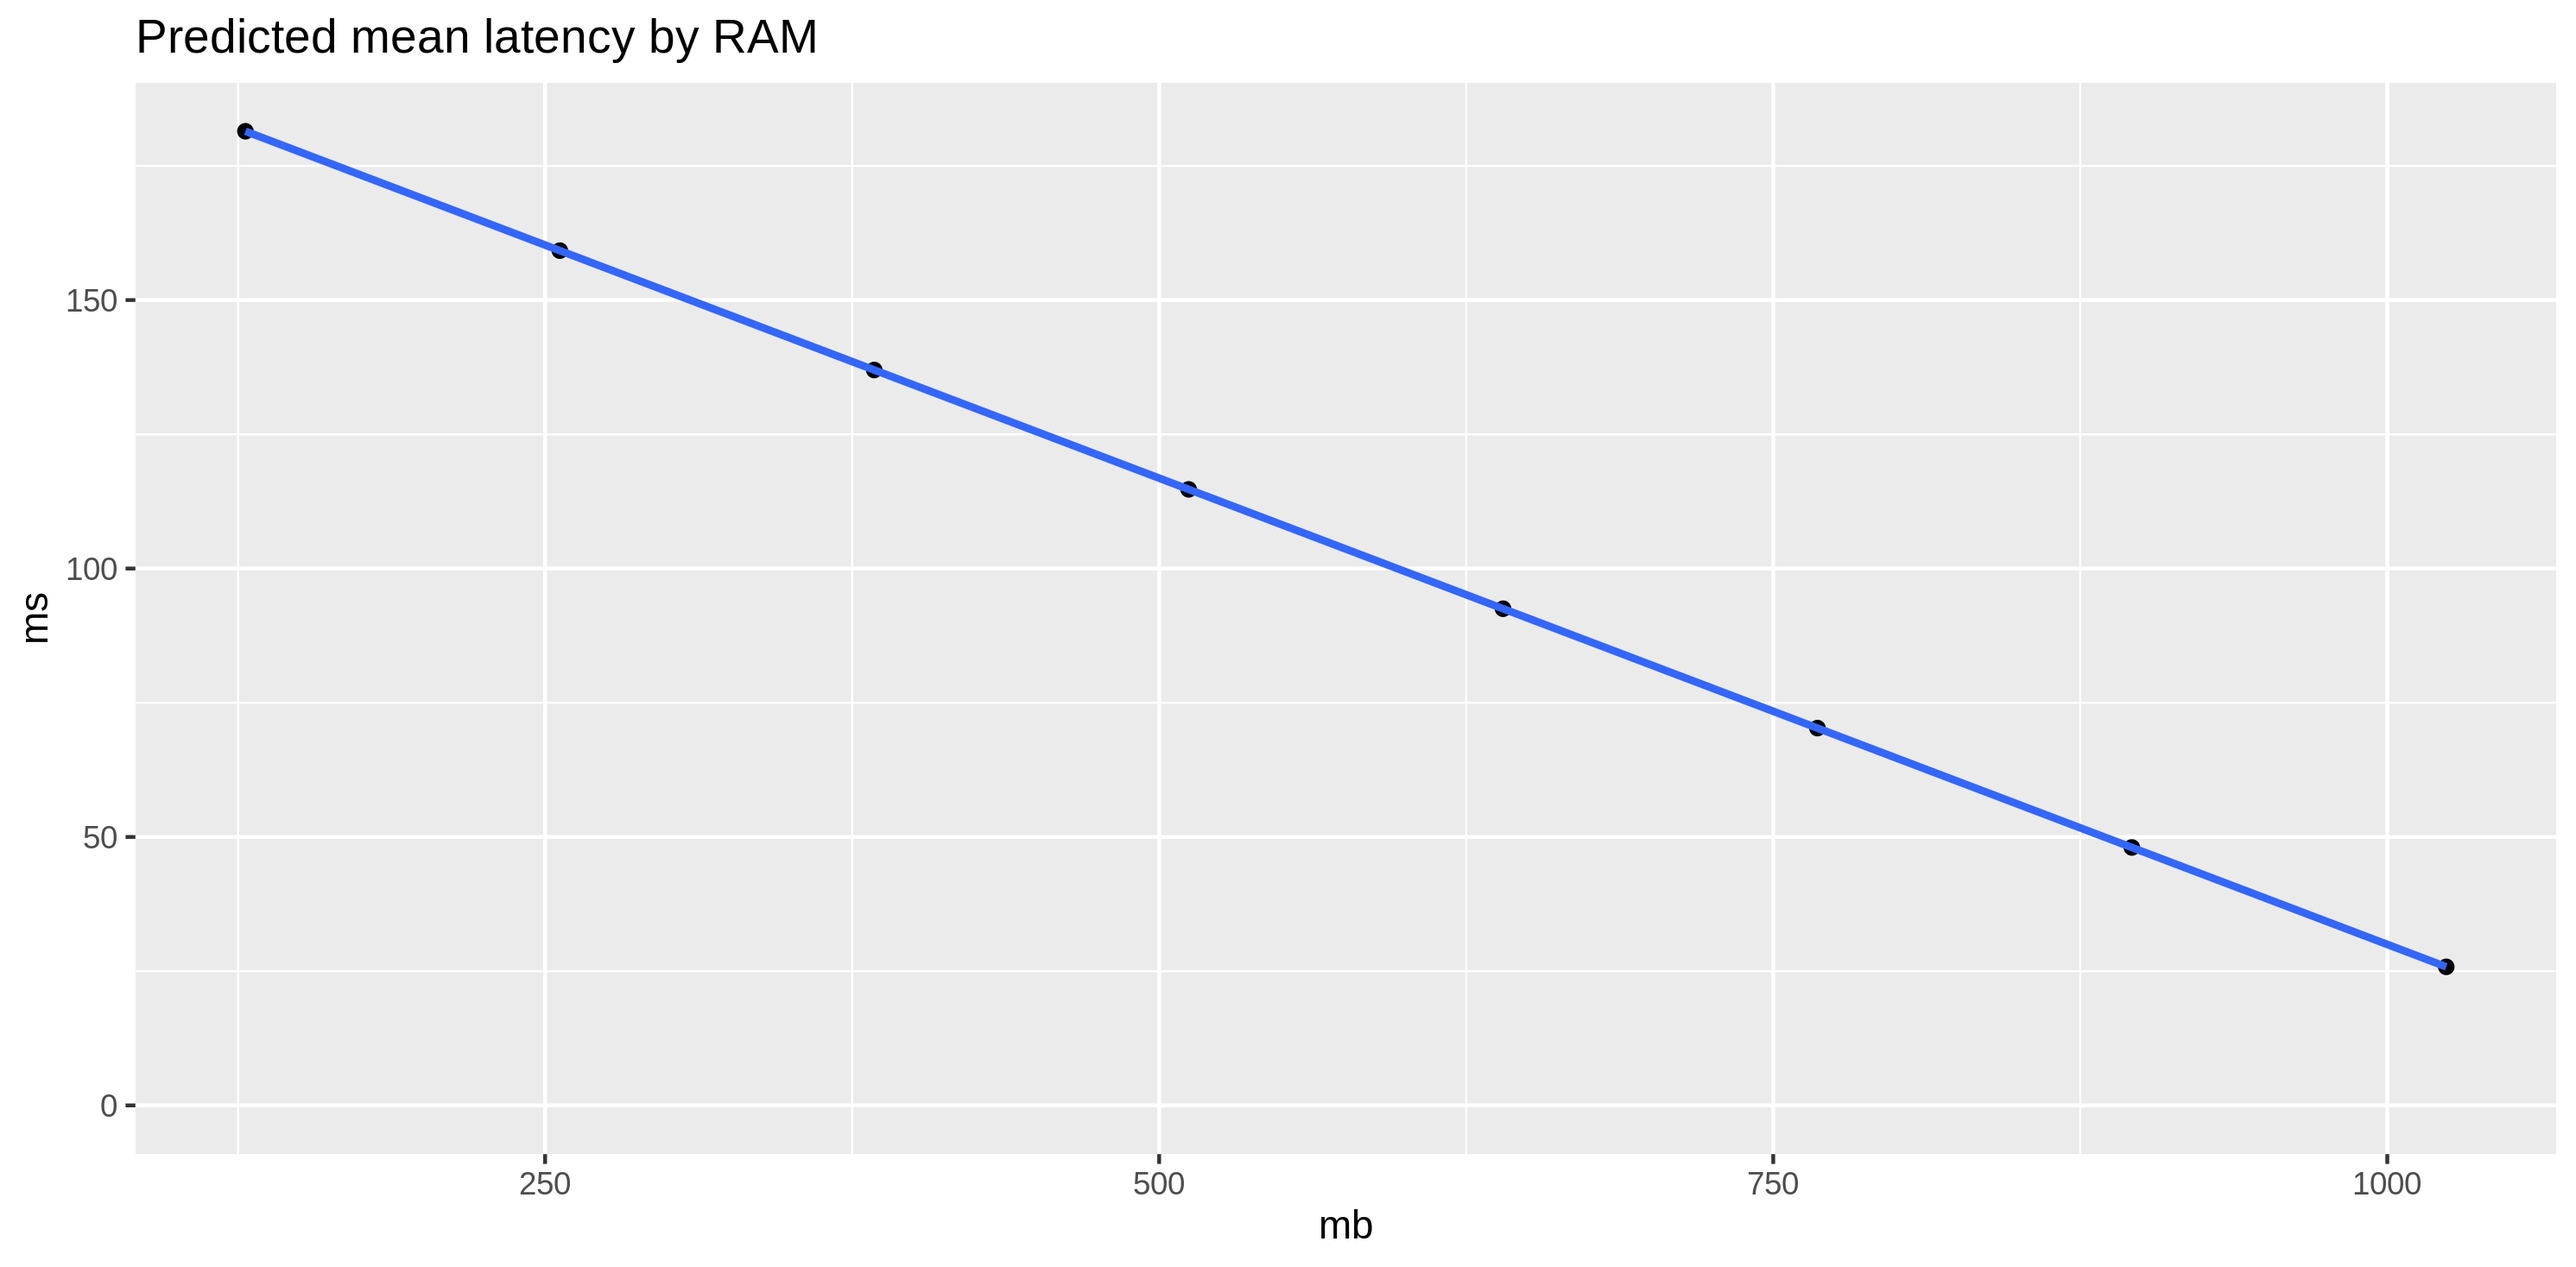
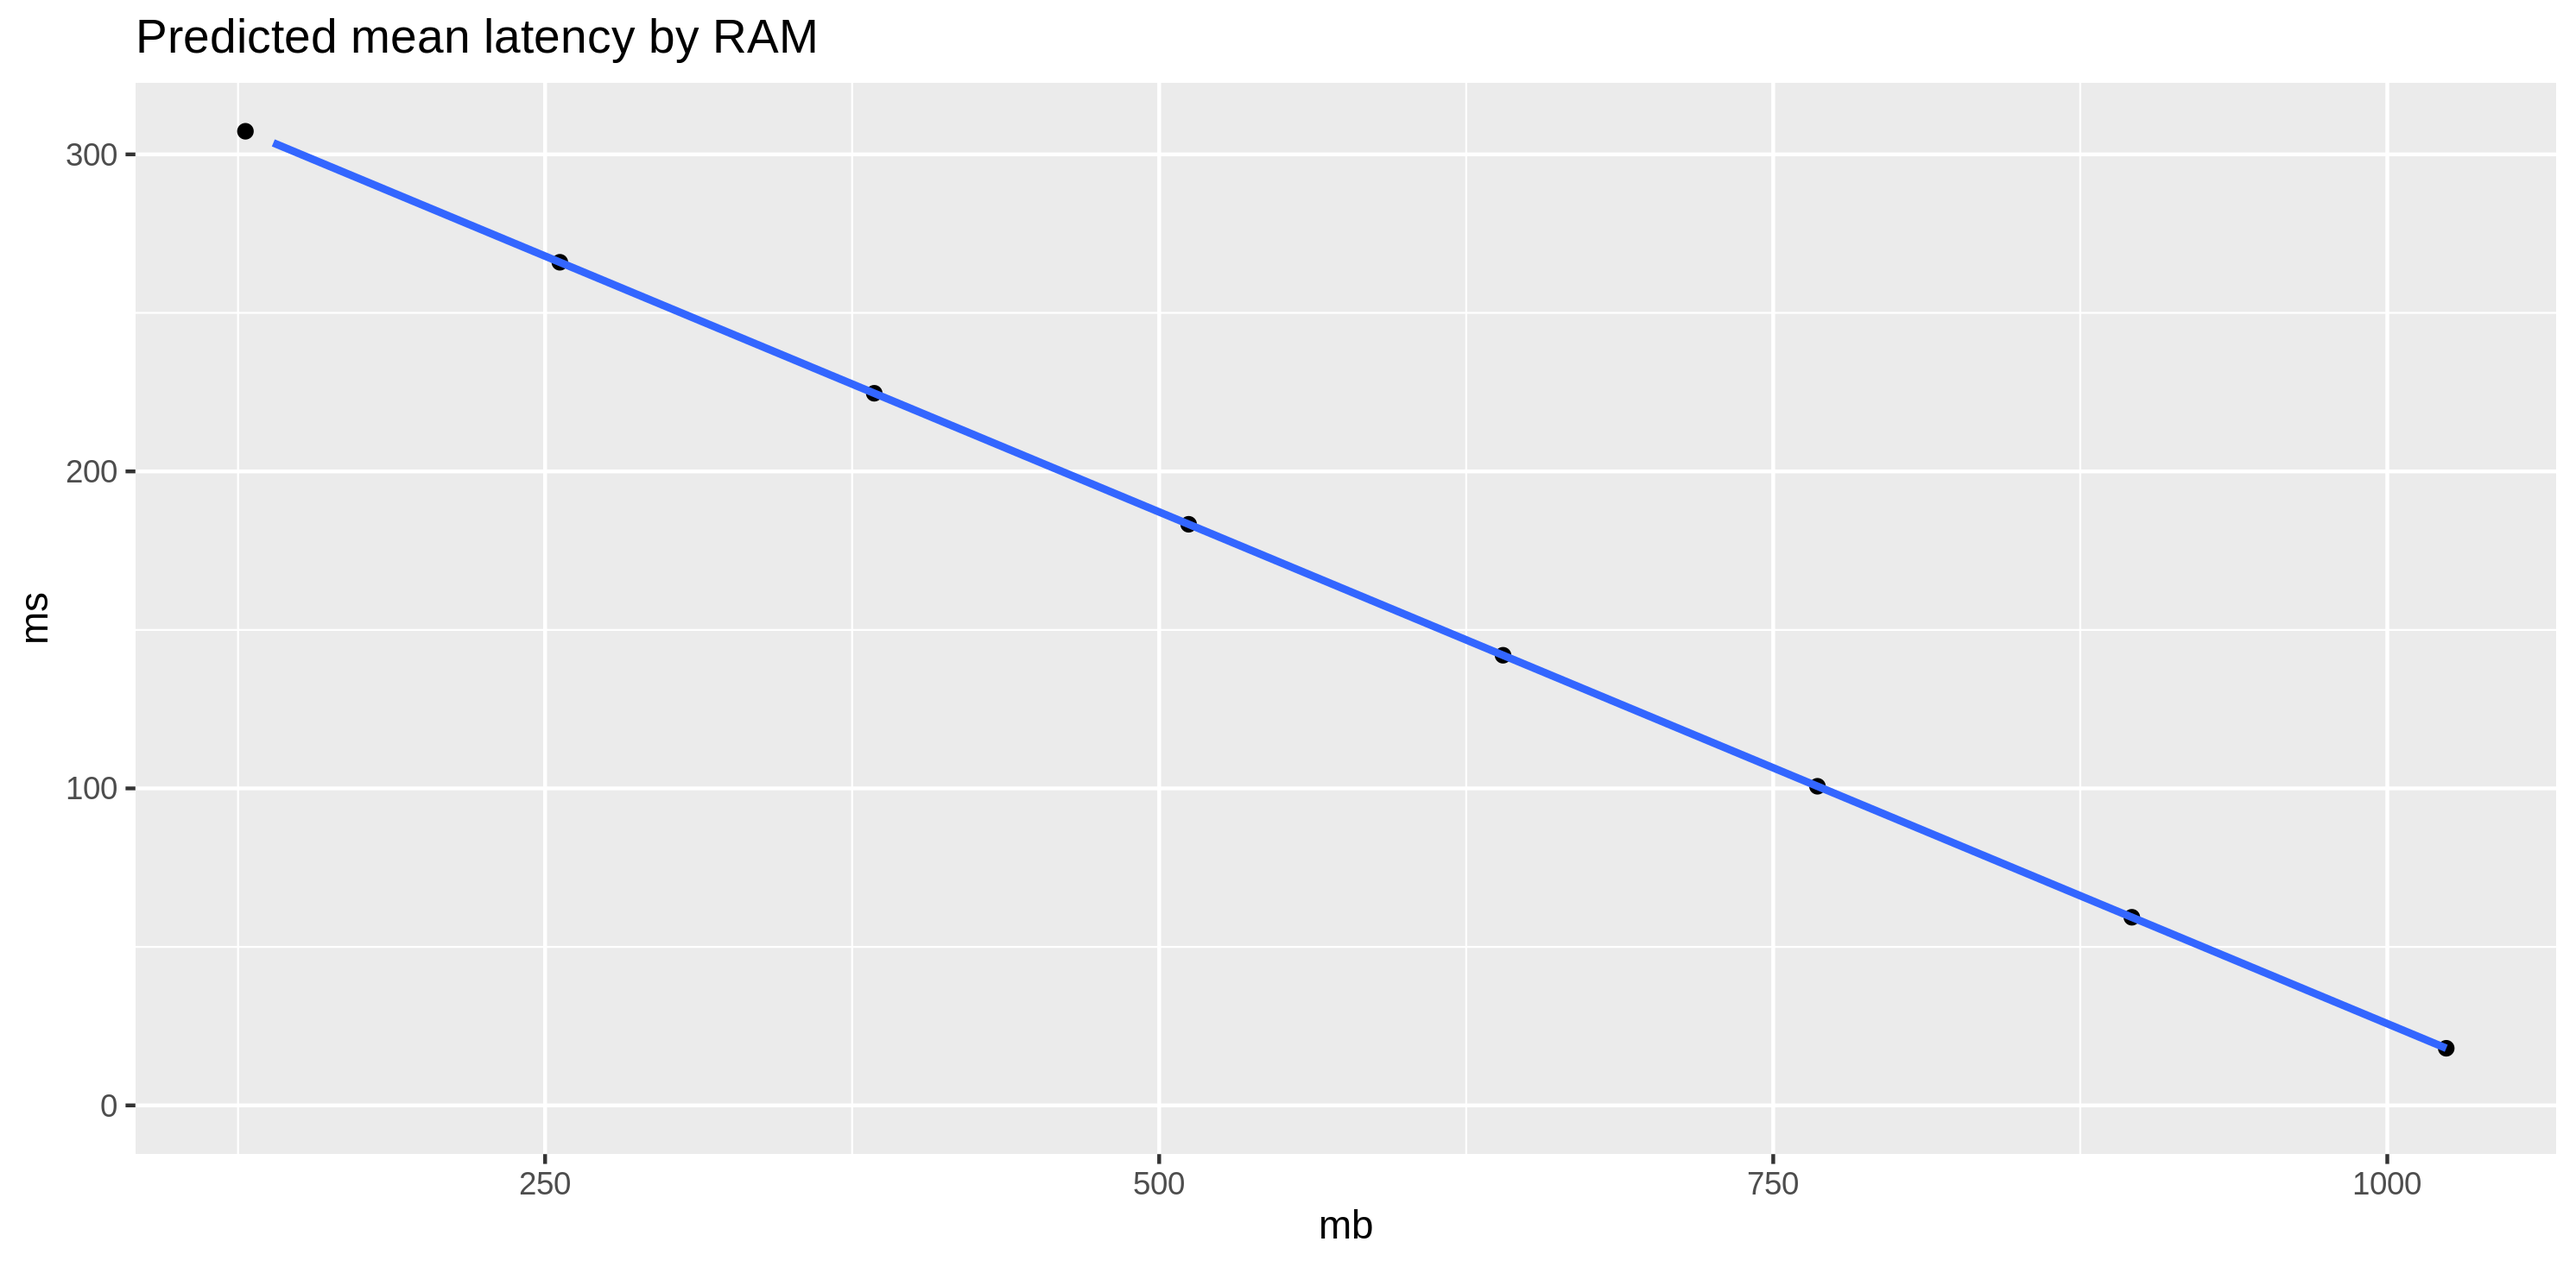
Count work

diff --git a/msgs.go b/msgs.go
@@ -9,26 +9,35 @@ import (
 )
 
 type InMessage struct {
-	T           time.Time
-	ComputeTime distuv.Gamma
-	BlockTime   distuv.Gamma
-	Computes    distuv.Poisson
-	N           int
+	T          time.Time
+	StepKeys   int
+	StepRounds int
+	WorkSteps  distuv.Poisson
+	Works      distuv.Poisson
+	BlockTime  distuv.Gamma
+	N          int
 }
 
 type OutMessage struct {
-	In          InMessage
-	ComputeTime int64
-	Worked      int
-	BlockTime   int64
-	Computes    int
-	Elapsed     int64
+	In        InMessage
+	WorkTime  int64
+	Worked    int
+	Steps     int
+	BlockTime int64
+	Elapsed   int64
+	Version   string
 }
 
-func (in *InMessage) work(keys, rounds int) {
-	for i := 0; i < rounds; i++ {
+func (in *InMessage) WorkStep() {
+	if in.StepKeys <= 0 {
+		in.StepKeys = 10
+	}
+	if in.StepRounds <= 0 {
+		in.StepRounds = 10
+	}
+	for i := 0; i < in.StepRounds; i++ {
 		m := make(map[string]interface{})
-		for j := 0; j < keys; j++ {
+		for j := 0; j < in.StepKeys; j++ {
 			var (
 				k = strconv.Itoa(j)
 				v = strconv.Itoa(-j)
@@ -41,40 +50,56 @@ func (in *InMessage) work(keys, rounds int) {
 	}
 }
 
-func (in *InMessage) Compute() (int, int64) {
-	if in.ComputeTime.Alpha == 0 {
-		in.ComputeTime.Alpha = 7
-		in.ComputeTime.Beta = 1
-	}
+func (in *InMessage) Work() (int, time.Duration) {
 	var (
-		ms      = int64(in.ComputeTime.Rand())
-		then    = time.Now().UTC()
-		elapsed time.Duration
-		count   int
+		then  = time.Now()
+		steps = int(in.WorkSteps.Rand())
 	)
-	for {
-		in.work(10, 100)
-		count++
-		if elapsed = time.Now().Sub(then); elapsed > time.Millisecond*time.Duration(ms) {
-			break
-		}
+	for i := 0; i < steps; i++ {
+		in.WorkStep()
 	}
-	return count, elapsed.Nanoseconds() / 1000 / 1000
+	return steps, time.Now().Sub(then)
 }
 
-func (in *InMessage) Block() int64 {
+func (in *InMessage) Block() time.Duration {
+	then := time.Now()
 	if in.BlockTime.Alpha == 0 {
 		in.BlockTime.Alpha = 7
 		in.BlockTime.Beta = 1
 	}
-	ms := int64(in.BlockTime.Rand())
-	time.Sleep(time.Millisecond * time.Duration(ms))
-	return ms
+	var (
+		ms = int64(in.BlockTime.Rand())
+		d  = time.Millisecond * time.Duration(ms)
+	)
+	time.Sleep(d)
+	return time.Now().Sub(then)
 }
 
-func (in *InMessage) Computations() int {
-	if in.Computes.Lambda == 0 {
-		in.Computes.Lambda = 4
+func (in *InMessage) Run() *OutMessage {
+	if in.T.IsZero() {
+		in.T = time.Now().UTC()
 	}
-	return int(in.Computes.Rand())
+
+	var (
+		then = time.Now().UTC()
+		out  = &OutMessage{
+			Worked:  1 + int(in.Works.Rand()),
+			Version: "1",
+		}
+	)
+
+	for i := 0; i < out.Worked; i++ {
+		if 0 < i {
+			out.BlockTime += in.Block().Nanoseconds() / 1000 / 1000
+		}
+		steps, d := in.Work()
+		out.Steps += steps
+		out.WorkTime += d.Nanoseconds() / 1000 / 1000
+	}
+
+	elapsed := time.Now().Sub(then)
+	out.Elapsed = elapsed.Nanoseconds() / 1000 / 1000
+	out.In = *in
+
+	return out
 }

diff --git a/lambda/main.go b/lambda/main.go
@@ -4,6 +4,7 @@ import (
 	"context"
 	"encoding/json"
 	"fmt"
+	"log"
 	"math/rand"
 	"time"
 
@@ -17,26 +18,9 @@ func init() {
 }
 
 func HandleRequest(ctx context.Context, in lp.InMessage) (string, error) {
-	var (
-		then = time.Now().UTC()
-	)
+	log.Printf("N=%d %#v", in.N, in)
 
-	out := &lp.OutMessage{
-		Computes: in.Computations(),
-	}
-
-	for i := 0; i < out.Computes; i++ {
-		if 0 < i {
-			out.BlockTime += in.Block()
-		}
-		works, ms := in.Compute()
-		out.Worked += works
-		out.ComputeTime += ms
-	}
-
-	elapsed := time.Now().Sub(then)
-	out.Elapsed = elapsed.Nanoseconds() / 1000 / 1000
-	out.In = in
+	out := in.Run()
 
 	js, err := json.Marshal(out)
 	if err != nil {

diff --git a/README.md b/README.md
@@ -1,4 +1,4 @@
-# Experiment: Lambda CPU vs RAM
+# Experiment: Lambda computing vs RAM
 
 Execute a Lambda, with specified compute/blocking mixes, with varying
 RAM.
@@ -23,15 +23,30 @@ Examine the output (`d.csv`):
 ```R
 library(tidyverse)
 d <- read_csv("call-lambda/d.csv")
-ggplot(d, aes(work,ms,color=mb,group=mb)) + 
+summary(d)
+
+d %>% group_by(mb) %>% 
+	summarize(mean_work_time=mean(work_time), mean_block_time=mean(block_time))
+
+ggplot(d, aes(worked,ms,color=mb,group=mb)) + 
 	geom_point(alpha=0.4) + 
 	geom_smooth(method=lm) + 
 	scale_colour_gradient(low="red",high="blue") +
 	labs(title="Work vs Elapsed time by RAM",
-	     subtitle="Blocking time is about twice compute time.")
+	     subtitle="Blocking time is the same as compute time at 512MB.")
+ggsave("eff-by-ram.png")
+
+
+d %>% filter(mb==512) %>% 
+	mutate(percent_blocked=100*block_time/ms) %>% 
+	ggplot(aes(percent_blocked)) + 
+	geom_histogram(bin_width=5) + 
+	labs(title="Percent of time blocked at 512MB",x="Percent of total time") + 
+	xlim(0,100)
+ggsave("blocking.png")
 
 # Efficiency
-d$e <- d$ms/d$work
+d$e <- d$ms/d$worked
 
 m <- lm(e ~ mb, data=d)
 d1 <- data.frame(mb=seq(128,1024,128))
@@ -39,31 +54,32 @@ predict(m, d1)
 d1$e <- predict(m, d1)
 
 # For average work, what's the expected latency?
-d1$ms <- mean(d$work) * d1$e
-```
+d1$ms <- mean(d$worked) * d1$e
 
-![graph](eff-by-ram.png)
-
-The predicted mean latencies (milliseconds) by RAM tier:
-
-```
-    mb         e        ms
-1  128 15.748914 181.44062
-2  256 13.819109 159.20765
-3  384 11.889303 136.97468
-4  512  9.959498 114.74171
-5  640  8.029692  92.50874
-6  768  6.099886  70.27578
-7  896  4.170081  48.04281
-8 1024  2.240275  25.80984
-```
-
-```R
 ggplot(d1, aes(mb, ms)) + 
 	geom_point() + 
 	geom_smooth() + 
 	ylim(0, max(d1$ms)) + 
 	labs(title="Predicted mean latency by RAM")
+ggsave("predict.png")
+```
+
+![graph](eff-by-ram.png)
+
+![blocking](blocking.png)
+
+The predicted mean latencies (milliseconds) by RAM tier:
+
+```
+    mb         e        ms
+1  128 7.7184122 309.36361
+2  256 6.6762669 267.59312
+3  384 5.6341215 225.82263
+4  512 4.5919762 184.05215
+5  640 3.5498309 142.28166
+6  768 2.5076855 100.51117
+7  896 1.4655402  58.74068
+8 1024 0.4233949  16.97020
 ```
 
 ![predict](predict.png)
